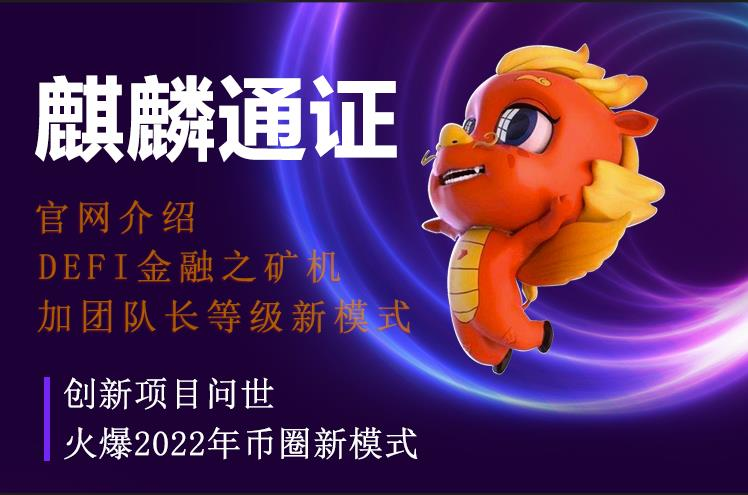
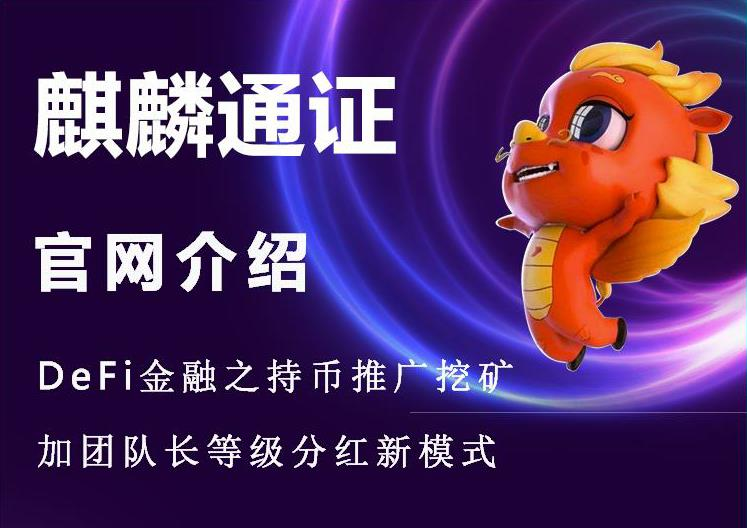
lqt

diff --git a/index.html b/index.html
@@ -111,31 +111,39 @@
 				<div>合约</div>
 				<div class="mar-t-3">定制</div>
 			</div>
-			<img class="img"
-				src="https://vkceyugu.cdn.bspapp.com/VKCEYUGU-f025bed1-101b-4383-9c33-bbbeccec7177/232e9f73-58a1-471e-adc1-2880ba6dcd79.jpg">
-			<div class="contact line15">
-				合约地址：0x0000000000000000000000000000000000000000
+			<img class="img" src="./images/Kylin海报_01.jpg">
+			<div class="box flex flex-column mar-t-20">
+				<div class="flex align-center titleBox">
+					<span class="title">基础信息</span>
+				</div>
+				<div class="list">
+					<div class="item2">发行总量:2000万枚Token，打入黑洞地址1000万枚Token，剩下1000万枚流入市场且不断销毁至1万枚。</div>
+					<div class="item2">销毁(黑洞)地址:</div>
+					<div class="item2">0x000000000000000000000000000000000000dEaD</div>
+					<div class="item2">合约地址:</div>
+					<div class="item2">0x000000000000000000000000000000000000dEaD</div>
+					<div class="item2">挖矿地址:</div>
+					<div class="item2">0xFDc18803E727d214d68FC654B5D75C38a9F61C8E</div>
+				</div>
 			</div>
 			<div class="box flex flex-column mar-t-20">
-				<!-- <img class="titleImg" src="./images/01.png"> -->
 				<div class="flex align-center titleBox">
 					<span class="title">麒麟通证特色</span>
 				</div>
 				<div class="list">
-					<div class="item">1.社区自治，项目方手里不预留代币，不存在老鼠仓。</div>
-					<div class="item">2.DeFi金融智能合约新模式，拥有矿机模式、团队等级制度、防砸制度、持币拉新分红等制度，可谓DeFi界难得一见的创新网红。</div>
-					<div class="item">3.不仅有每笔交易销毁3%，还有团队长可通过销毁麒麟通证来定制属于自己的合约。在双销毁的加速燃烧下，保证麒麟通证拥有者的资产能稳步增长。</div>
-					<div class="item">4.有香港实体公司背后神秘支持，以及会有香港多个币圈财团分阶段入场，目标五年内涨到1万刀一枚。</div>
+					<div class="item">1.社区自治，项目方手里不预留Token，不存在老鼠仓。</div>
+					<div class="item">2.DeFi金融智能合约新模式，拥有持币推广挖矿制度、团队等级制度、防砸制度、可谓DeFi界难得一见的创新网红。</div>
+					<div class="item">3.不仅有每笔交易销毁3%，还有团队长可通过销毁麒麟通证来定制属于自己的合约。在双销毁的加速燃烧下，保证麒麟通证拥有者的资产能稳步增值。</div>
+					<div class="item">4.有香港实体公司背后神秘支持，以及会有香港多个币圈财团分阶段入场，目标三年内涨到1万刀一枚。</div>
 				</div>
 			</div>
 			<div class="box">
-				<!-- <img class="titleImg" src="./images/02.png"> -->
 				<div class="flex align-center titleBox">
 					<span class="title">麒麟文化</span>
 				</div>
 				<div class="list">
 					<div class="item indent2em">
-						麒麟是古代神话中的一种神兽，寓意着人们对于美好生活的一种向往。麒麟是吉祥的代表，将其安放在家中，镇宅辟邪，增添家中吉祥的作用，不单令屋主事业顺畅，连带财运亦会好转。麒麟在风水中就象万金油，旺财，镇宅，化煞，旺人丁，求子，旺文等，各方面都可以使用。
+						麒麟是古代神话中的一种神兽，寓意着人们对于美好生活的一种向往。麒麟是吉祥的代表，将其安放在家中，镇宅辟邪，增添家中吉祥的作用，不单令屋主事业顺畅，连带财运亦会好转。麒麟在风水中就像万金油，旺财，镇宅，化煞，旺人丁，求子，旺文等，各方面都可以使用。
 					</div>
 					<div class="item indent2em">
 						麒麟是某种意念的象征，某种意境的表现，某种力量的显示，并启发人们的想像，引导人们的精神去契合某种意念，进入一种特定的境界，来达成强大的共识。
@@ -143,7 +151,6 @@
 				</div>
 			</div>
 			<div class="box">
-				<!-- <img class="titleImg" src="./images/03.png"> -->
 				<div class="flex align-center titleBox">
 					<span class="title">交易规则</span>
 				</div>
@@ -151,11 +158,11 @@
 					<div class="item">手续费10%</div>
 					<div class="item">2%营销钱包(注1)</div>
 					<div class="item">2%空投奖励(注2)</div>
-					<div class="item">3%流动性分红</div>
+					<div class="item">3%添加流动性分红</div>
 					<div class="item">3%燃烧销毁</div>
 					
 					<div class="item font-size-17 font-color-yellow">● 注1：营销钱包中的Token会自动分红给推广拉新的团队长，具体比例见下方的"团队长等级模块"。</div>
-					<div class="item2 font-size-17 font-color-yellow">● 注2：给好友发空投，即可绑定直推关系，A的一代直推每次交易奖励A空投奖励中70%的代币，A的二代直推每次交易奖励A空投奖励中30%的代币。比如：A推广了B，B推广了C，B买入或卖出10000个代币奖励A10000×2%×70%=140个代币。C买入或卖出10000个代币奖励A 10000×2%×30%=60个代币。</div>
+					<div class="item2 font-size-17 font-color-yellow">● 注2：给好友发空投，即可绑定直推关系，A的一代直推每次交易奖励A空投奖励中70%的Token，A的二代直推每次交易奖励A空投奖励中30%的Token。比如：A推广了B，B推广了C，B买入或卖出10000个Token奖励A10000×2%×70%=140个Token。C买入或卖出10000个Token奖励A 10000×2%×30%=60个Token。</div>
 					
 					<div class="item font-size-17 font-color-red font-bold mar-t-10">交易规则(防砸制度):</div>
 					<div class="item font-size-17 font-color-red">1.所有人每24小时最多卖出一次，且每次不得超过”可流通量/500“的Token数量。</div>
@@ -166,7 +173,6 @@
 				</div>
 			</div>
 			<div class="box">
-				<!-- <img class="titleImg" src="./images/04.png"> -->
 				<div class="flex align-center titleBox">
 					<span class="title">团队长等级</span>
 				</div>
@@ -198,7 +204,6 @@
 				</div>
 			</div>
 			<div class="box">
-				<!-- <img class="titleImg" src="./images/05.png"> -->
 				<div class="flex align-center titleBox">
 					<span class="title">矿机类型</span>
 				</div>

diff --git a/css/style.css b/css/style.css
@@ -1232,6 +1232,30 @@ body{
 	margin-bottom: 3px;
 }
 .list .item2 {
-	font-size: 1.6rem;line-height: 1.5em;
+	font-size: 1.6rem;
+	line-height: 1.5em;
 	margin-bottom: 3px;
+	word-break: break-word; /* 文本行的任意字内断开，就算是一个单词也会分开 */
+	word-wrap: break-word; /* IE */
+	white-space: -moz-pre-wrap; /* Mozilla */
+	white-space: -hp-pre-wrap; /* HP printers */
+	white-space: -o-pre-wrap; /* Opera 7 */
+	white-space: -pre-wrap; /* Opera 4-6 */
+	white-space: pre; /* CSS2 */
+	white-space: pre-wrap; /* CSS 2.1 */
+	white-space: pre-line; /* CSS 3 (and 2.1 as well, actually) */
+}
+.linebr {
+	clear: both; /* 清除左右浮动 */
+	width: 100px; /* 必须定义宽度 */
+	border:1px solid ;/*定义容器外边框*/
+	word-break: break-word; /* 文本行的任意字内断开，就算是一个单词也会分开 */
+	word-wrap: break-word; /* IE */
+	white-space: -moz-pre-wrap; /* Mozilla */
+	white-space: -hp-pre-wrap; /* HP printers */
+	white-space: -o-pre-wrap; /* Opera 7 */
+	white-space: -pre-wrap; /* Opera 4-6 */
+	white-space: pre; /* CSS2 */
+	white-space: pre-wrap; /* CSS 2.1 */
+	white-space: pre-line; /* CSS 3 (and 2.1 as well, actually) */
 }
